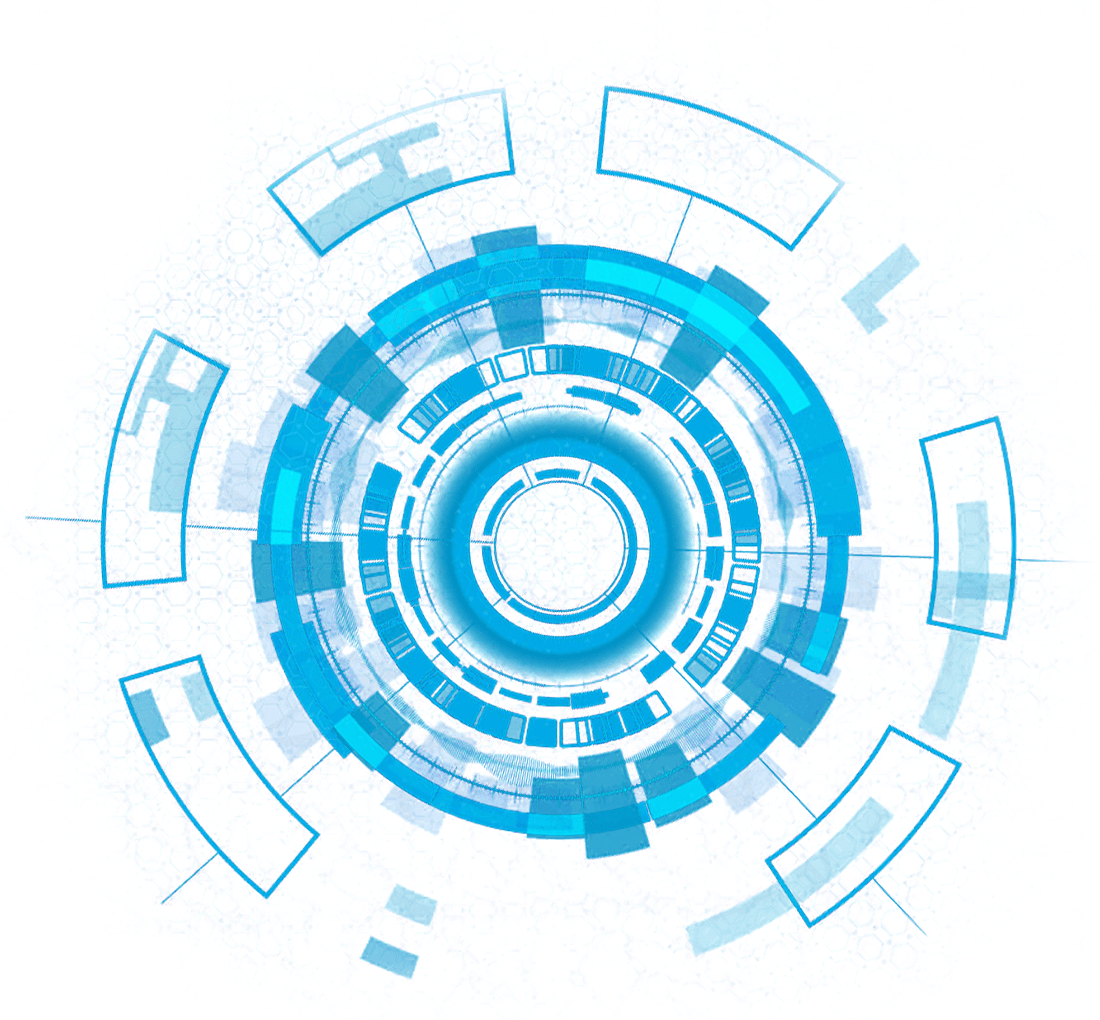
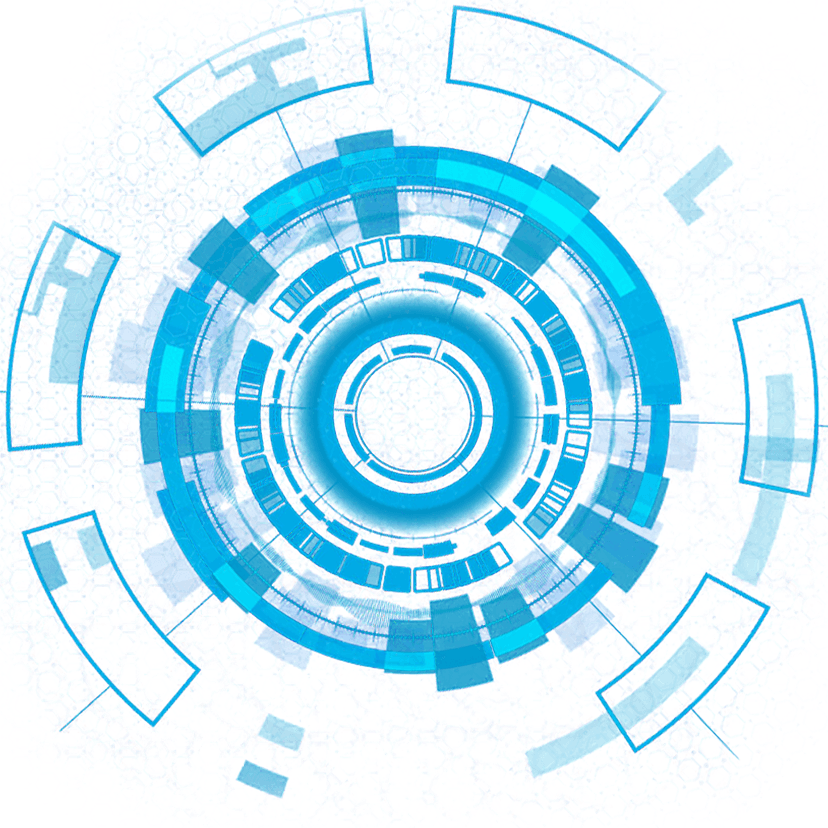
修改尺寸

diff --git a/app/styles/sections.less b/app/styles/sections.less
@@ -26,12 +26,13 @@ section-seven   carousel 幻灯片section
     overflow: hidden;
   }
   .circle{
-    width:100%;
-    height:100%; 
+    margin-top:100px;
+    height:80%;
+    width: auto;
     background: url(/images/circle.png) no-repeat center center;
     background-size: contain;
     -webkit-animation:mymove 5s infinite linear;
-    animation:mymove 5s infinite linear;  
+    animation:mymove 15s infinite linear;  
   }
   @keyframes mymove{
     from {
